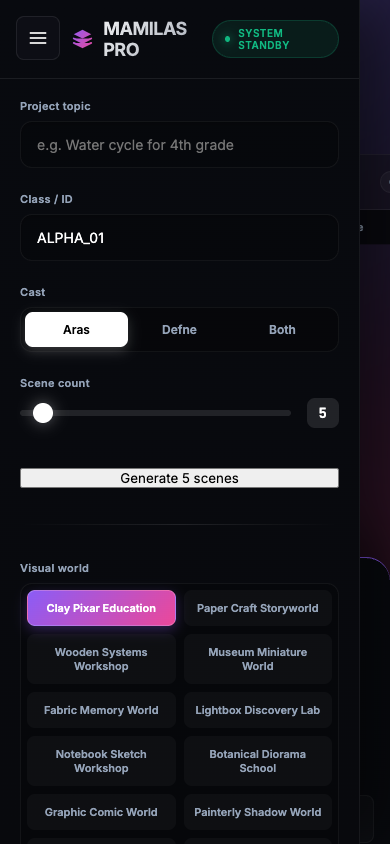
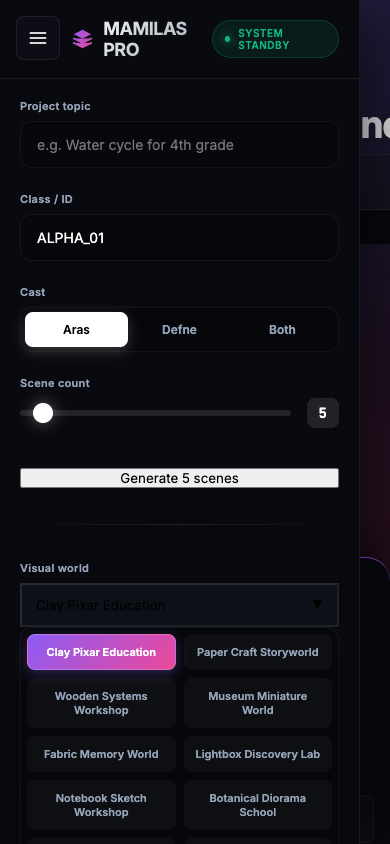
feat(ui): upgraded raw selects into aesthetic modal cards, added mobile app bars

diff --git a/public/beautify_selects.js b/public/beautify_selects.js
@@ -1,0 +1,80 @@
+document.addEventListener("DOMContentLoaded", () => {
+    const selects = document.querySelectorAll("select.studio-select");
+    
+    // Create Modal Container
+    const modal = document.createElement('div');
+    modal.className = 'custom-select-modal';
+    modal.innerHTML = `
+        <div class="custom-select-overlay"></div>
+        <div class="custom-select-content">
+            <h2 class="custom-select-title">Select Option</h2>
+            <div class="custom-select-grid grid g3"></div>
+            <button class="custom-select-close btn ghost">Cancel</button>
+        </div>
+    `;
+    document.body.appendChild(modal);
+
+    const overlay = modal.querySelector('.custom-select-overlay');
+    const closeBtn = modal.querySelector('.custom-select-close');
+    const grid = modal.querySelector('.custom-select-grid');
+    const titleEl = modal.querySelector('.custom-select-title');
+
+    function closeModal() {
+        modal.classList.remove('active');
+    }
+
+    overlay.addEventListener('click', closeModal);
+    closeBtn.addEventListener('click', closeModal);
+
+    selects.forEach(select => {
+        select.style.display = 'none';
+
+        const wrapper = document.createElement('div');
+        wrapper.className = 'custom-select-wrapper';
+        
+        const trigger = document.createElement('button');
+        trigger.className = 'custom-select-trigger btn ghost';
+        trigger.type = 'button';
+        
+        const updateTrigger = () => {
+            const selectedOpt = select.options[select.selectedIndex];
+            trigger.innerHTML = `<span>${selectedOpt ? selectedOpt.text : 'Select...'}</span> <small>▼</small>`;
+        };
+        updateTrigger();
+
+        select.addEventListener('change', updateTrigger);
+
+        trigger.addEventListener('click', () => {
+            titleEl.textContent = select.previousElementSibling ? select.previousElementSibling.textContent : 'Select Option';
+            grid.innerHTML = '';
+
+            Array.from(select.options).forEach((opt, index) => {
+                const card = document.createElement('button');
+                card.className = `card ${select.selectedIndex === index ? 'sel' : ''}`;
+                // Add reference specific gradient classes if needed
+                let extraClass = '';
+                if(select.id === 'cascade-reference') {
+                   // A small preview stripe
+                   card.innerHTML = `<div class="refCardPreview ${opt.value}"></div><h3>${opt.text}</h3><p>${opt.value}</p>`;
+                } else if(select.id === 'cascade-world') {
+                   card.innerHTML = `<h3>${opt.text}</h3><p class="pill gold">${opt.value}</p>`;
+                } else {
+                   card.innerHTML = `<h3>${opt.text}</h3>`;
+                }
+
+                card.onclick = () => {
+                    select.selectedIndex = index;
+                    select.dispatchEvent(new Event('change'));
+                    closeModal();
+                };
+                grid.appendChild(card);
+            });
+
+            modal.classList.add('active');
+        });
+
+        select.parentNode.insertBefore(wrapper, select);
+        wrapper.appendChild(trigger);
+        wrapper.appendChild(select);
+    });
+});

diff --git a/public/style.css b/public/style.css
@@ -808,3 +808,73 @@ td.item-check:hover { color: var(--gold); }
   .studio-timeline { height: auto; max-height: 340px; }
   .prompt-group-half { grid-template-columns: 1fr; }
 }
+
+/* Custom Select Modal for MAMILAS */
+.custom-select-trigger {
+  width: 100%;
+  display: flex;
+  justify-content: space-between;
+  align-items: center;
+  background: var(--s2) !important;
+  border-color: var(--line2) !important;
+  text-align: left;
+  padding: 12px 14px;
+}
+.custom-select-trigger:hover {
+  background: var(--s3) !important;
+  border-color: var(--gold) !important;
+}
+
+.custom-select-modal {
+  position: fixed;
+  inset: 0;
+  z-index: 1000;
+  display: none;
+  align-items: center;
+  justify-content: center;
+}
+.custom-select-modal.active {
+  display: flex;
+}
+.custom-select-overlay {
+  position: absolute;
+  inset: 0;
+  background: rgba(3, 4, 7, 0.85);
+  backdrop-filter: blur(14px);
+}
+.custom-select-content {
+  position: relative;
+  z-index: 1001;
+  background: linear-gradient(180deg, var(--s1), #050609);
+  border: 1px solid var(--line2);
+  border-radius: 20px;
+  width: 90%;
+  max-width: 900px;
+  max-height: 85vh;
+  display: flex;
+  flex-direction: column;
+  box-shadow: 0 24px 100px rgba(0,0,0,0.8), inset 0 1px 0 rgba(255,255,255,0.05);
+  animation: modalIn 0.2s cubic-bezier(0.16, 1, 0.3, 1);
+}
+@keyframes modalIn {
+  from { opacity: 0; transform: translateY(20px) scale(0.98); }
+  to { opacity: 1; transform: translateY(0) scale(1); }
+}
+
+.custom-select-title {
+  padding: 24px 24px 16px;
+  font-size: 22px;
+  font-weight: 900;
+  letter-spacing: -0.5px;
+  border-bottom: 1px solid var(--line);
+}
+.custom-select-grid {
+  padding: 24px;
+  overflow-y: auto;
+  gap: 16px;
+  flex: 1;
+}
+.custom-select-close {
+  margin: 16px 24px 24px;
+  align-self: flex-end;
+}

diff --git a/patch_ui.js b/patch_ui.js
@@ -1,0 +1,14 @@
+const fs = require('fs');
+
+let html = fs.readFileSync('public/index.html', 'utf8');
+
+// Add mobile bar and nav
+if (!html.includes('class="mob-bar"')) {
+  const mobBar = `<header class="mob-bar"><div class="mob-logo"><b>MAMI</b>LAS</div><div class="mob-spacer"></div><button class="mob-icon" aria-label="Toggle preview panel" onclick="document.getElementById('studio-sidebar').classList.toggle('open')">☰</button></header>`;
+  html = html.replace('<body>', '<body>\n' + mobBar);
+}
+
+// Convert selects to use a custom visual wrapper in a script!
+// Actually, let's inject a JS function into app.js that hides selects and builds custom UI.
+fs.writeFileSync('public/index.html', html);
+console.log('HTML updated');

diff --git a/public/index.html b/public/index.html
@@ -10,6 +10,7 @@
   <link rel="stylesheet" href="style.css">
 </head>
 <body>
+<header class="mob-bar"><div class="mob-logo"><b>MAMI</b>LAS</div><div class="mob-spacer"></div><button class="mob-icon" aria-label="Toggle preview panel" onclick="document.getElementById('studio-sidebar').classList.toggle('open')">☰</button></header>
 
 <button id="mobile-nav-toggle" class="mobile-nav-toggle" aria-label="Toggle controls">
   <svg viewBox="0 0 24 24" fill="none" stroke="currentColor" stroke-width="2" stroke-linecap="round" stroke-linejoin="round"><line x1="3" y1="6" x2="21" y2="6"/><line x1="3" y1="12" x2="21" y2="12"/><line x1="3" y1="18" x2="21" y2="18"/></svg>
@@ -451,3 +452,4 @@
 <script src="bundle.js"></script>
 </body>
 </html>
+<script src="beautify_selects.js"></script>